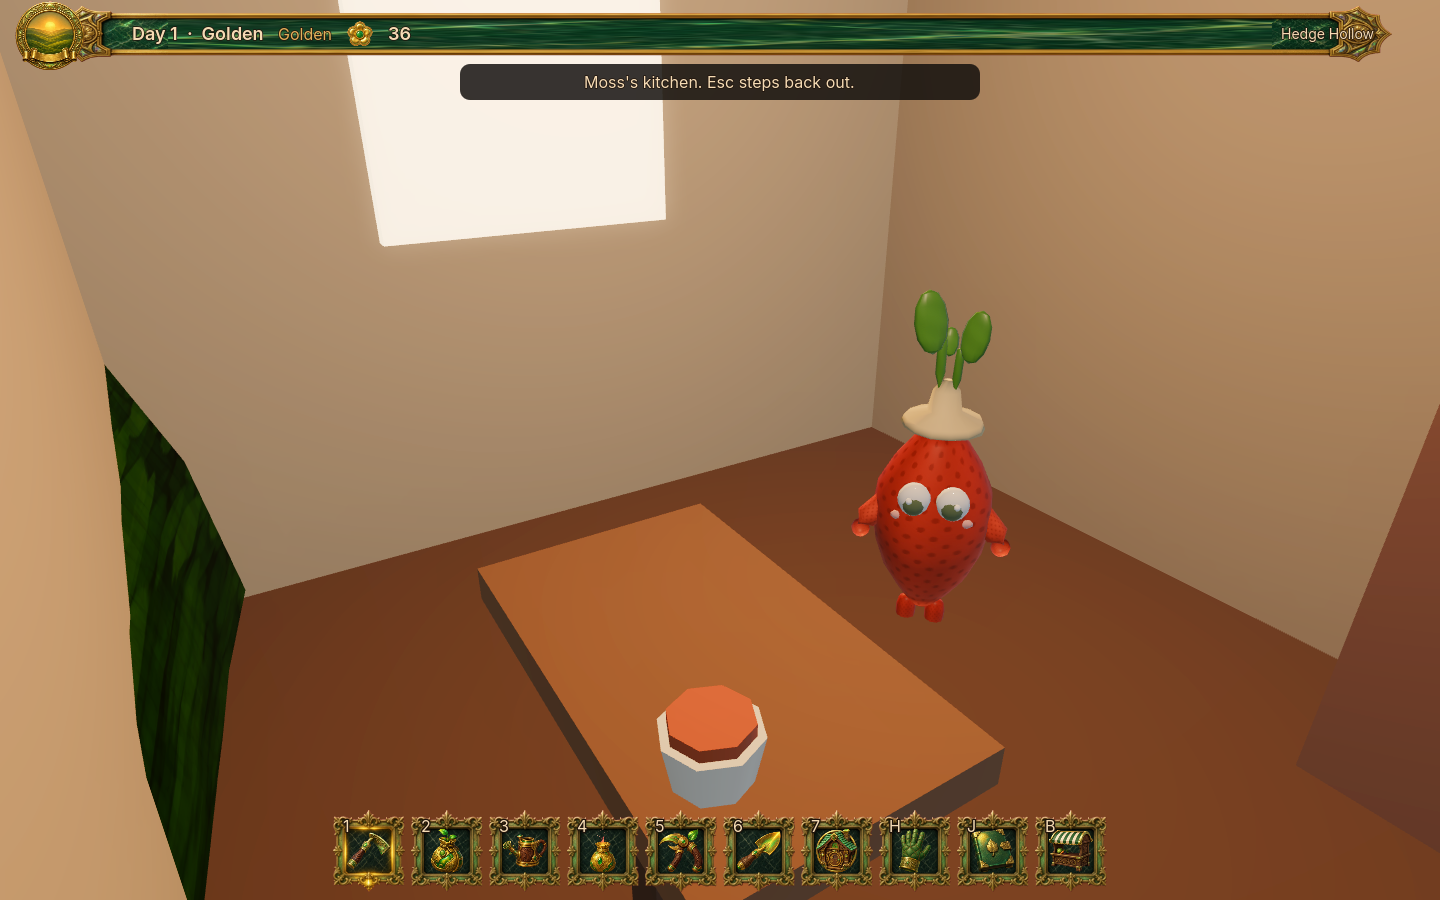
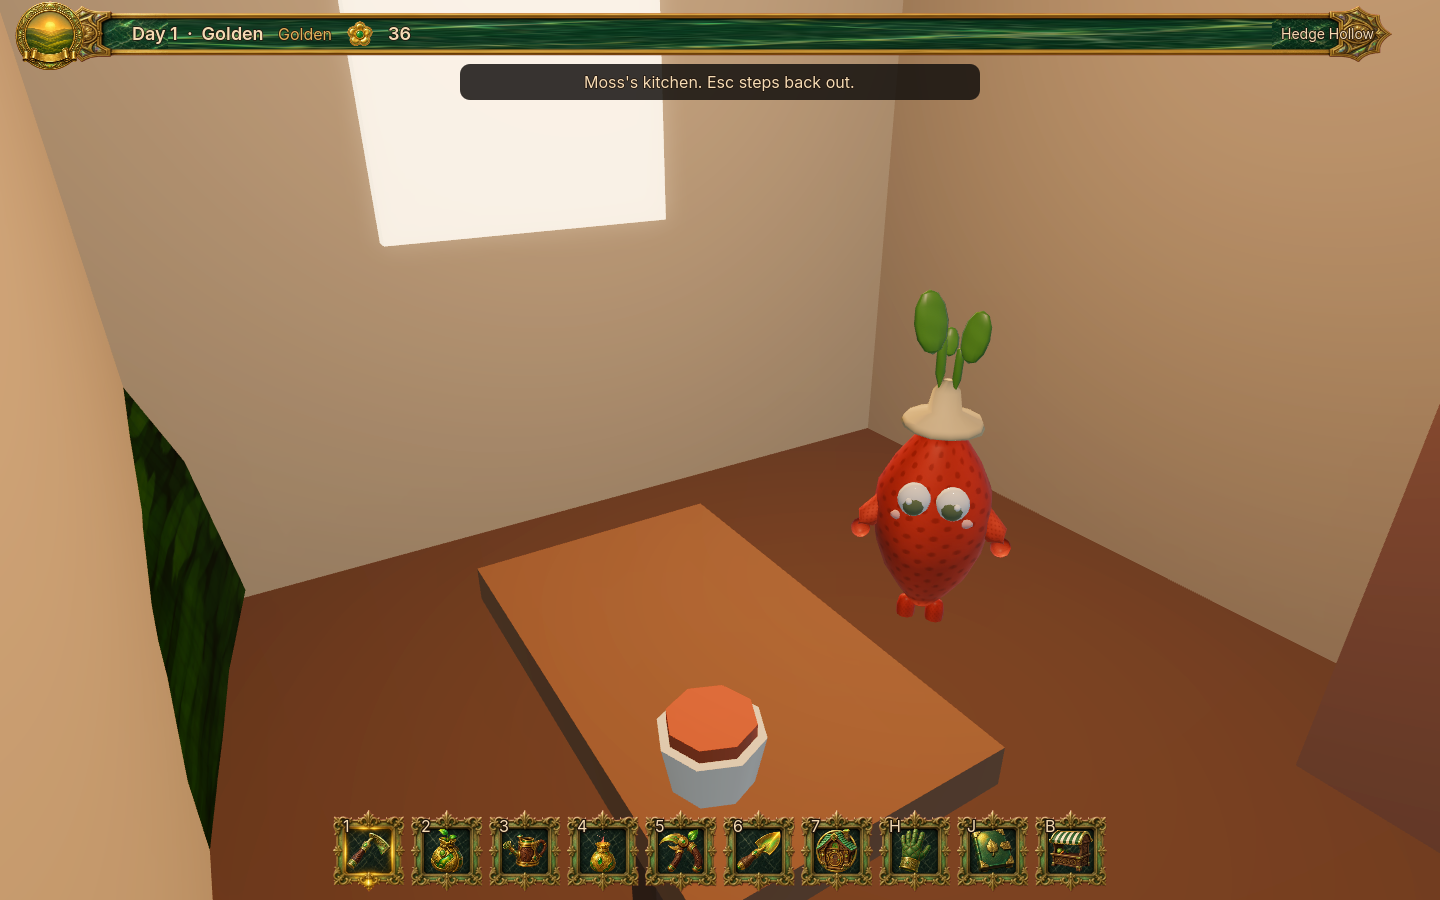
Shut the cottage doorway so the kitchen no longer sees the hedge.
The side walls run past the door, and a panel fills the opening. The town shot still requires the window and the cup in frame. The left of the capture has no green pixels.

diff --git a/docs/CAMPAIGN_BOARD.md b/docs/CAMPAIGN_BOARD.md
@@ -9,13 +9,13 @@ Playable Hedge Hollow on `petal/09-art-rescue`, continued on `cursor/playable-je
 - Tend the four beds. Feed a jelly from a ripe plant or the pouch.
 - Grab, nuzzle, throw. A fed idle jelly shows the approved cut-out. Hunger or a grab shows a shaded gel icon with two black eyes.
 - Stall, jam, tea, journal. Vale map on M. Town page on C.
-- Grove Park opens after the road rumour and Nessa's filing. Lumen and Bram walk through the hedge gate and stay on the grass. South Lane puts six cottages on that path when the rumour is filed. A near camera stands one tomato household at the first door. Enter steps into that kitchen. Esc steps back out. Catalog stays `active: false`.
+- Grove Park opens after the road rumour and Nessa's filing. Lumen and Bram walk through the hedge gate and stay on the grass. South Lane puts six cottages on that path when the rumour is filed. A near camera stands one tomato household at the first door. Enter steps into that kitchen, and the doorway stays shut behind the camera. Esc steps back out. Catalog stays `active: false`.
 
 ## NEXT
 
 - `PETAL_QA_SCRIPTS_OK`, `JELLY_PLAY_OK`, and `PETAL_RESIDENT_SHOT_OK` are green on this tip (2026-09-29). The park frame shows the gate, the lawn, Bellhelp, and both veg folk.
 - Cherry-pick neon status icons (`cursor/jelly-status-icons-ffcb`) only if they sit on the icon and leave the eyes visible.
-- `PETAL_TOWN_SHOT_OK` shows the door household, then the kitchen window with Moss and the tea cup, then the lawn again.
+- `PETAL_TOWN_SHOT_OK` shows the door household, then the sealed kitchen with the window, Moss, and the tea cup, then the lawn again.
 - `kettle_brew.png` keeps the brewing kettle and its steam in frame.
 - `jam_pan.png` now shows the copper pan, the jam, and the steam. The shed wall is behind it.
 - Point `main` at this garden when the suite stays green. Do not replay the east-chain.

diff --git a/docs/CURRENT_STATE.md b/docs/CURRENT_STATE.md
@@ -71,7 +71,7 @@ Executive on this branch. No other agent is writing this tree in this run.
 
 `docs/screenshots/south_lane.png` (1440×900). The near cottage has a lit window and a tomato household at the door. The sign reads South Lane. Grove Park is beyond the path.
 
-`docs/screenshots/cottage_inside.png` (1440×900). Enter opened the near cottage. The lit window, Moss, the table, and the red tea top are in one frame. The line reads “Moss's kitchen. Esc steps back out.” A hedge sliver still shows through the doorway.
+`docs/screenshots/cottage_inside.png` (1440×900). Enter opened the near cottage. The lit window, Moss, the table, and the red tea top are in one frame. The line reads “Moss's kitchen. Esc steps back out.” The left of that frame has no hedge pixels.
 
 ## KNOWN REGRESSIONS
 
@@ -88,7 +88,7 @@ One playable original-IP garden a person can tend, feed, and throw, reading as a
 1. Keep the resting cut-out for a fed idle jelly. The gel icon is hunger and a grab.
 2. When this suite stays green, open a PR from this garden onto `main`. Do not push `main` from the agent.
 3. Leave `grove_park.active` false until Nessa's existing filing. Do not add another east-chain stone.
-4. The kitchen frame holds the window, Moss, and the tea cup. The other five cottages stay closed. Next is closing the doorway gap that still shows the hedge.
+4. The kitchen frame holds the window, Moss, and the tea cup, and the doorway no longer shows the hedge. The other five cottages stay closed.
 5. Cherry-pick neon status icons only if they sit on the icon and leave the eyes visible.
 
 ## DO NOT REBUILD
